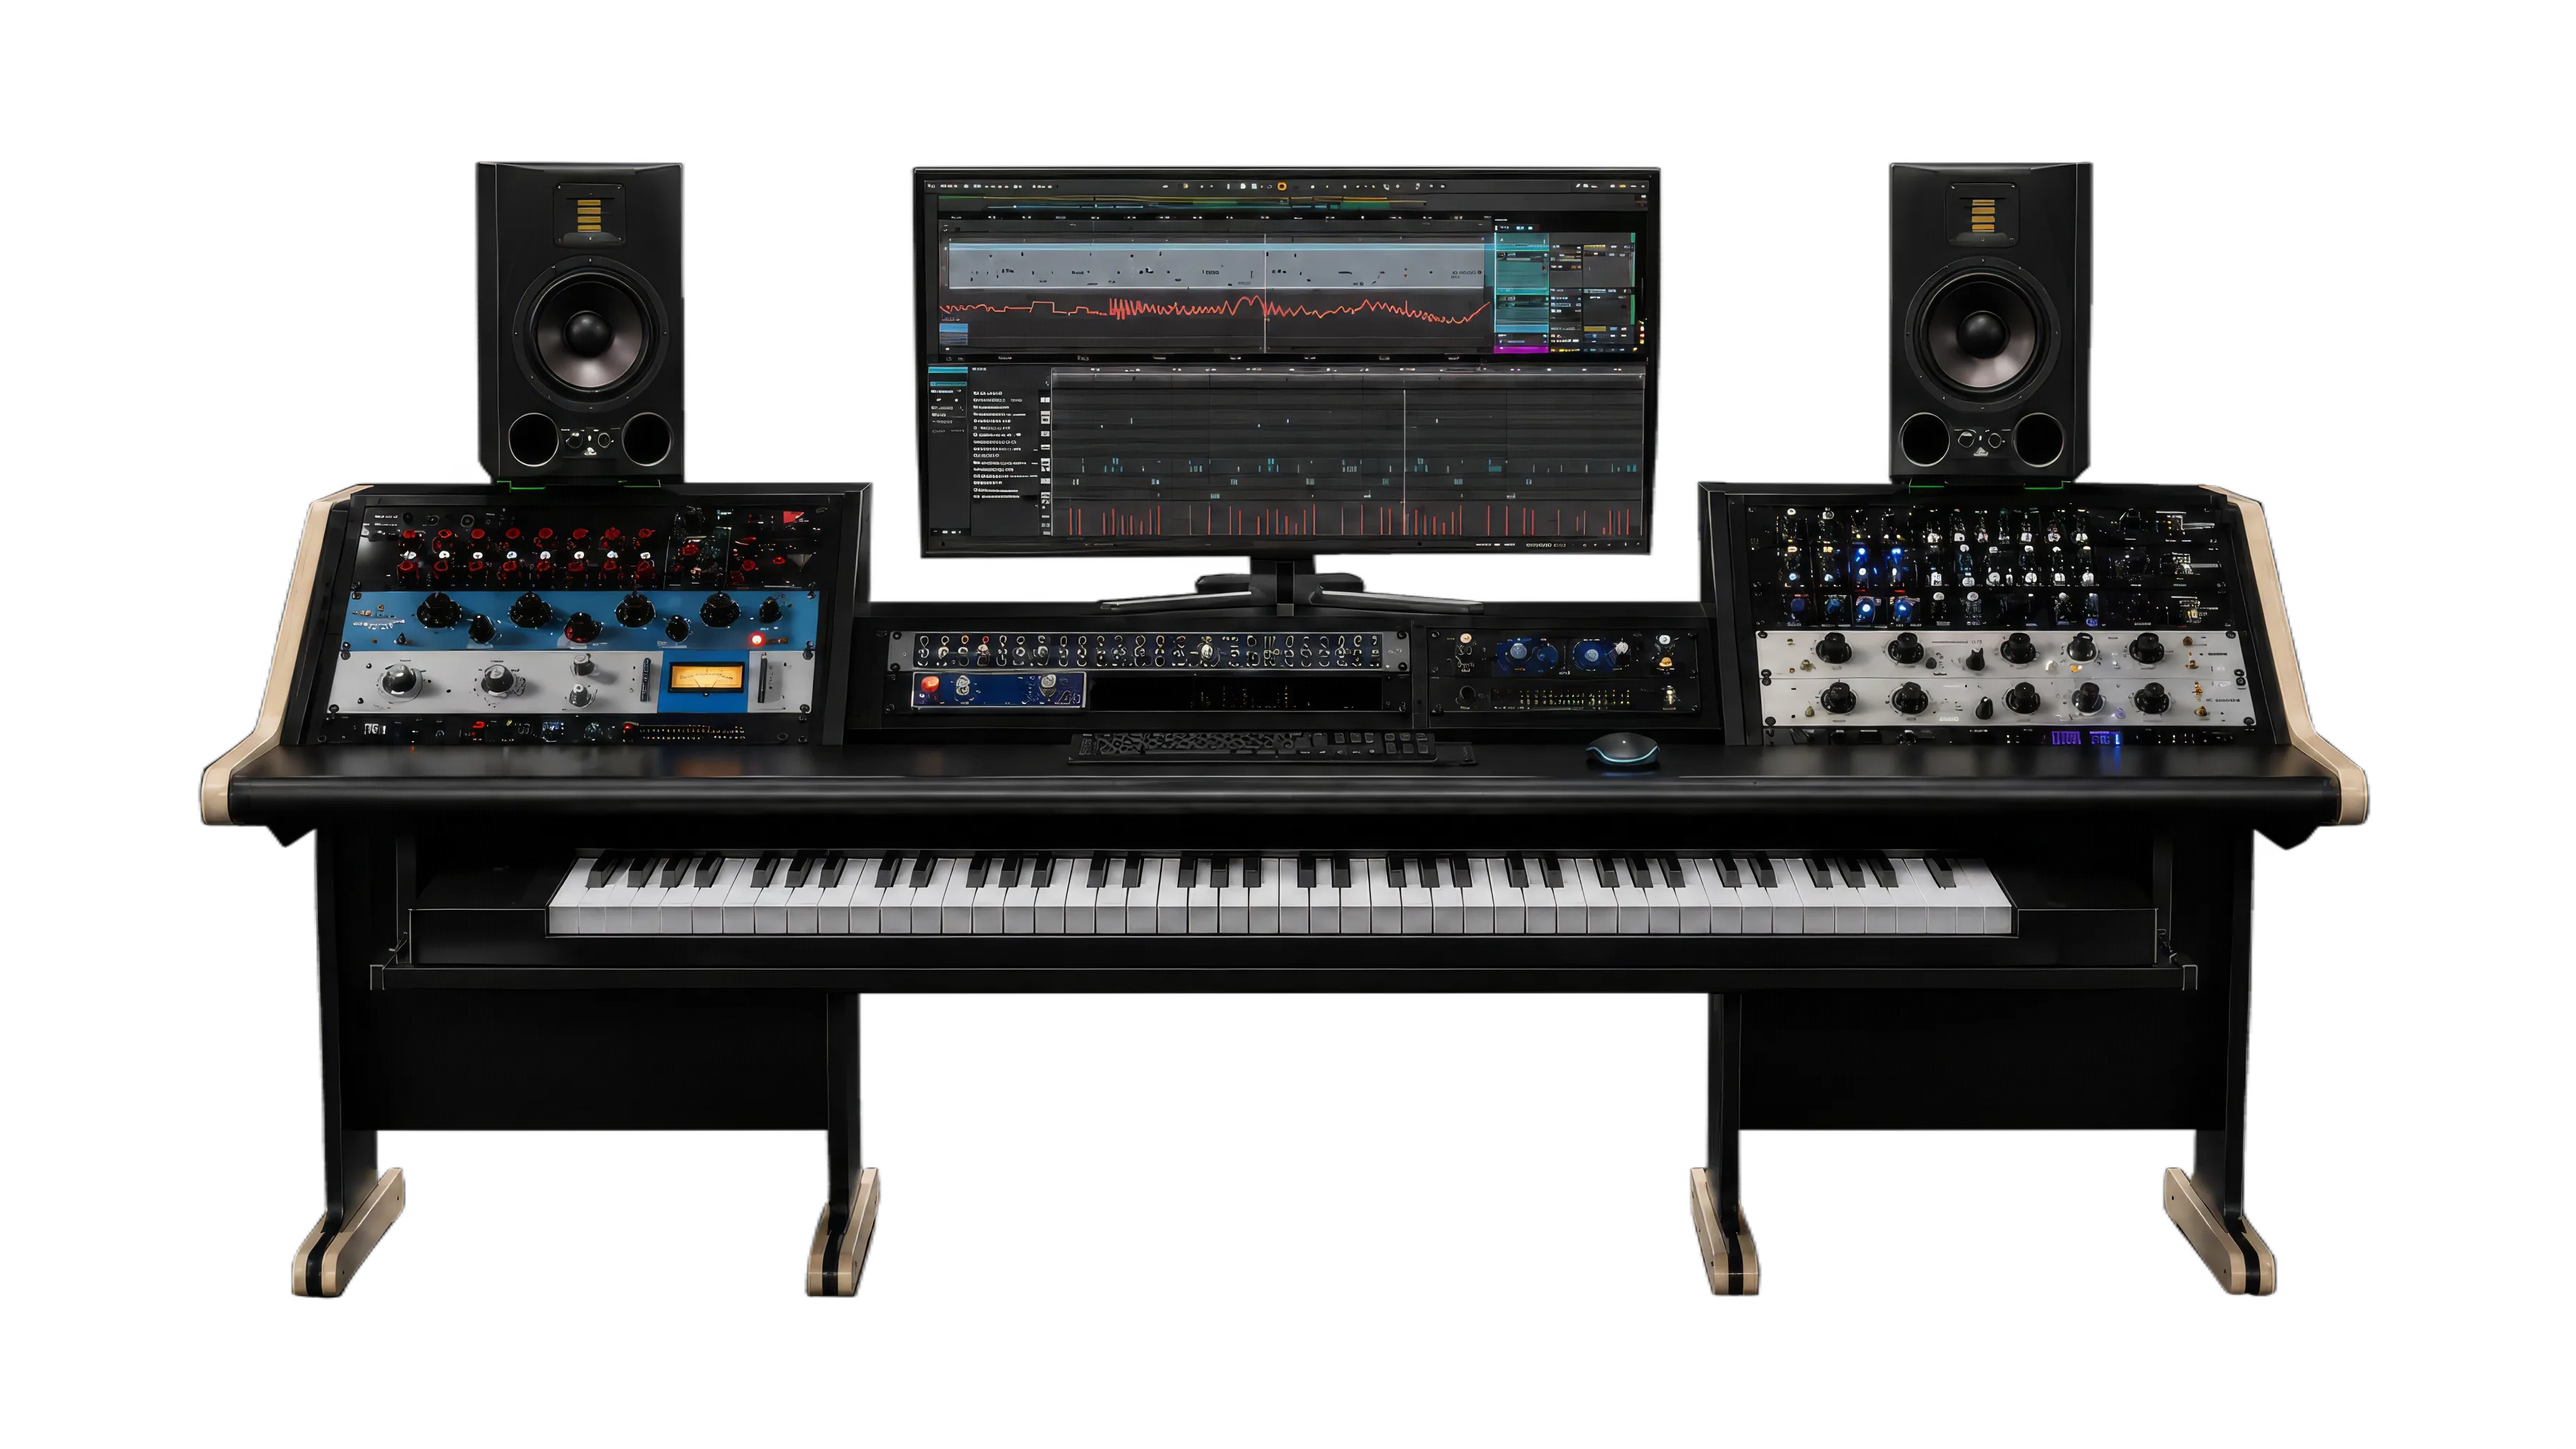
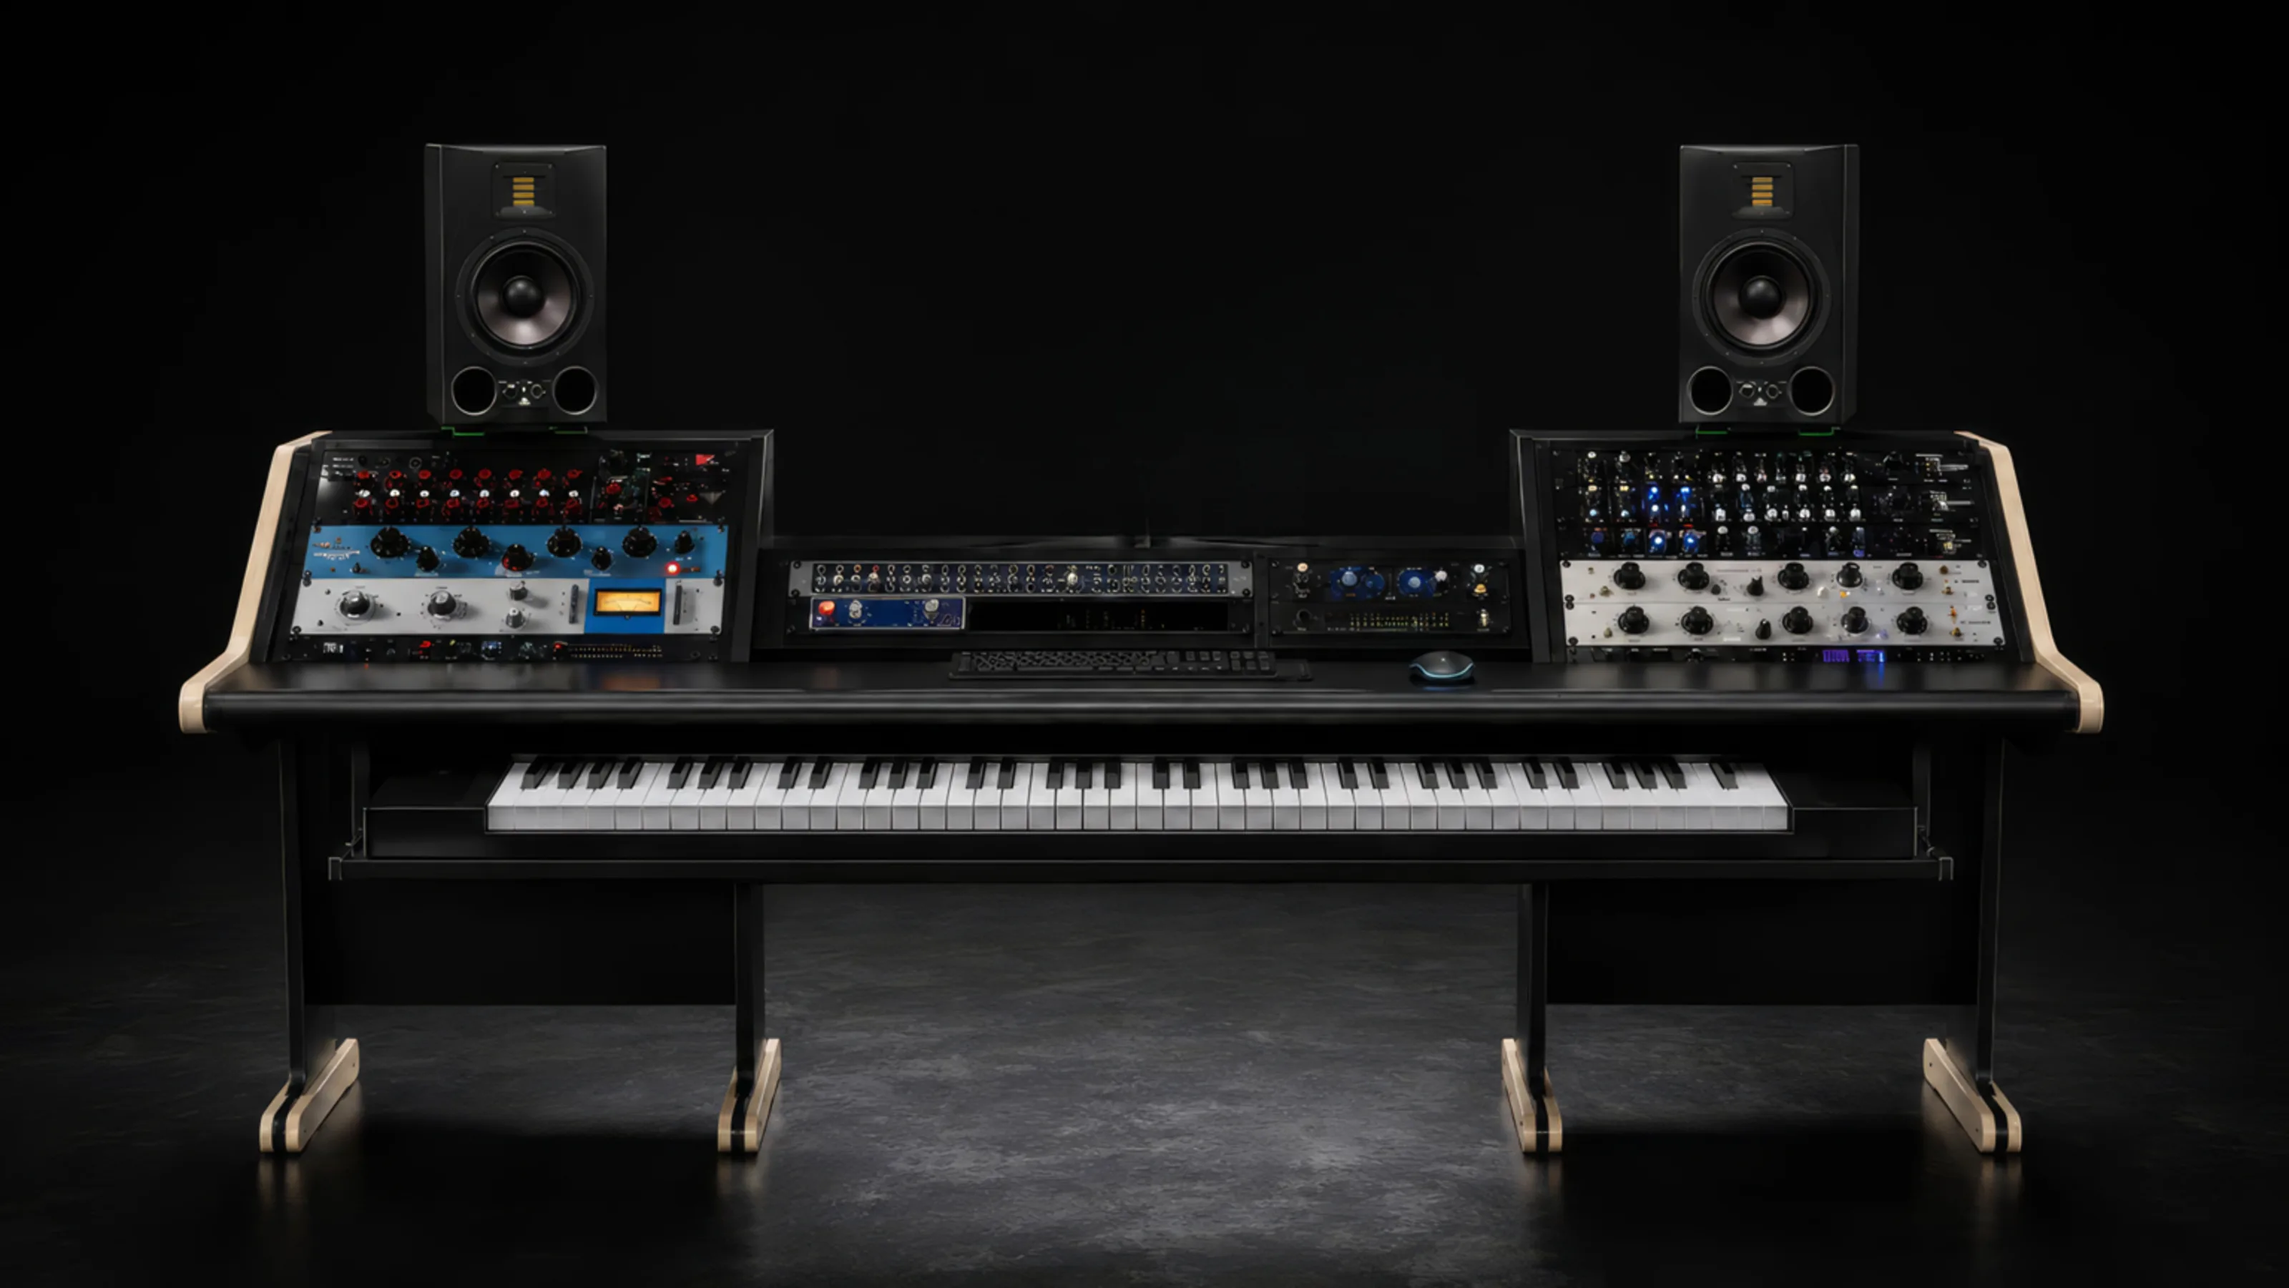
feat(hero): monitor-free desk render as hero background + landing surface
New studio-supplied desk render (no baked monitor, dark backdrop and
floor included; 3200w webp, 127KB) replaces the previous asset. It now
plays two roles: a dim background present from the hero's first frame
(fades up to 50% with the entrance, edge-masked into the page), then
brightens to full and settles as the tilted monitor lands on its
desktop at the end of the scroll. Surface anchor retuned to the new
render's desk line (top: calc(100% - 76px - 28vw)).

diff --git a/src/components/marketing/hero.tsx b/src/components/marketing/hero.tsx
@@ -79,7 +79,10 @@ export function Hero() {
           { y: 24, opacity: 0 },
           { y: 0, opacity: 1, duration: 0.7, stagger: 0.1 },
           "-=0.6",
-        );
+        )
+        // The studio desk fades up dimly behind everything - the hero
+        // background - before brightening fully at the landing.
+        .fromTo("[data-hero-ledge]", { autoAlpha: 0 }, { autoAlpha: 0.5, duration: 1.0 }, "-=0.9");
 
       // Scroll scrub + pin handoff. The section pins for ~2 viewports of scroll:
       //   Phase 1 (t 0-1): monitor rotates toward flat + grows while the giant
@@ -137,12 +140,12 @@ export function Hero() {
           { y: () => -window.innerHeight * 0.3, ease: "none", duration: 0.8 },
           1.05,
         )
-        // Desk ledge rises/fades in under the monitor.
+        // The desk brightens to full and settles as the monitor lands on it.
         .fromTo(
           "[data-hero-ledge]",
-          { autoAlpha: 0, yPercent: 45 },
-          { autoAlpha: 1, yPercent: 0, ease: "none", duration: 0.6 },
-          1.2,
+          { autoAlpha: 0.5, yPercent: 8 },
+          { autoAlpha: 1, yPercent: 0, ease: "none", duration: 0.6, immediateRender: false },
+          1.1,
         );
     },
     { scope: root },
@@ -235,19 +238,32 @@ export function Hero() {
             <div
               data-hero-ledge
               aria-hidden
-              className="pointer-events-none absolute left-1/2 z-0 w-screen max-w-none -translate-x-1/2 select-none opacity-0"
-              style={{ top: "calc(100% - 76px - 27vw)" }}
+              className="pointer-events-none absolute left-1/2 z-0 w-screen max-w-none -translate-x-1/2 select-none opacity-50 motion-safe:opacity-0"
+              style={{ top: "calc(100% - 76px - 28vw)" }}
             >
               <div
                 aria-hidden
-                className="pointer-events-none absolute inset-0"
+                className="pointer-events-none absolute inset-0 z-10"
                 style={{
                   background:
                     "radial-gradient(48% 60% at 50% 36%, rgba(255,238,200,0.10), transparent 72%), radial-gradient(75% 30% at 50% 92%, rgba(255,238,200,0.05), transparent 75%)",
                 }}
               />
               {/* eslint-disable-next-line @next/next/no-img-element */}
-              <img src="/hero-scene.webp" alt="" draggable={false} className="block w-full" />
+              <img
+                src="/hero-scene.webp"
+                alt=""
+                draggable={false}
+                className="block w-full"
+                style={{
+                  maskImage:
+                    "linear-gradient(to bottom, transparent 0%, #000 14%, #000 96%, transparent 100%), linear-gradient(to right, transparent 0%, #000 6%, #000 94%, transparent 100%)",
+                  maskComposite: "intersect",
+                  WebkitMaskImage:
+                    "linear-gradient(to bottom, transparent 0%, #000 14%, #000 96%, transparent 100%), linear-gradient(to right, transparent 0%, #000 6%, #000 94%, transparent 100%)",
+                  WebkitMaskComposite: "source-in",
+                }}
+              />
             </div>
             {/* 3D monitor */}
           <div
